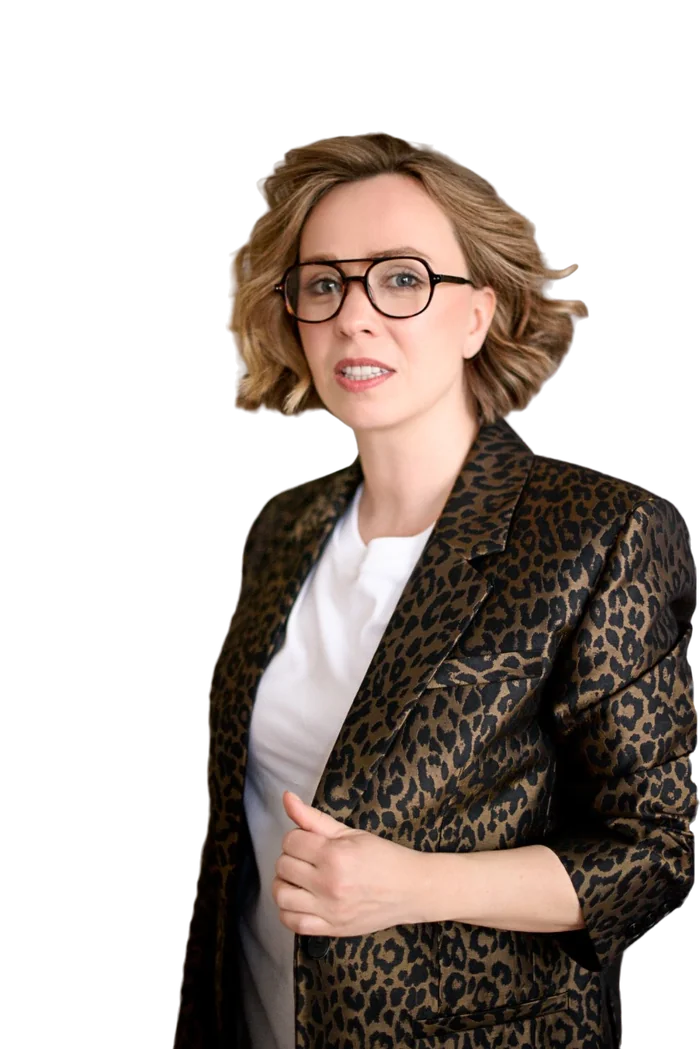
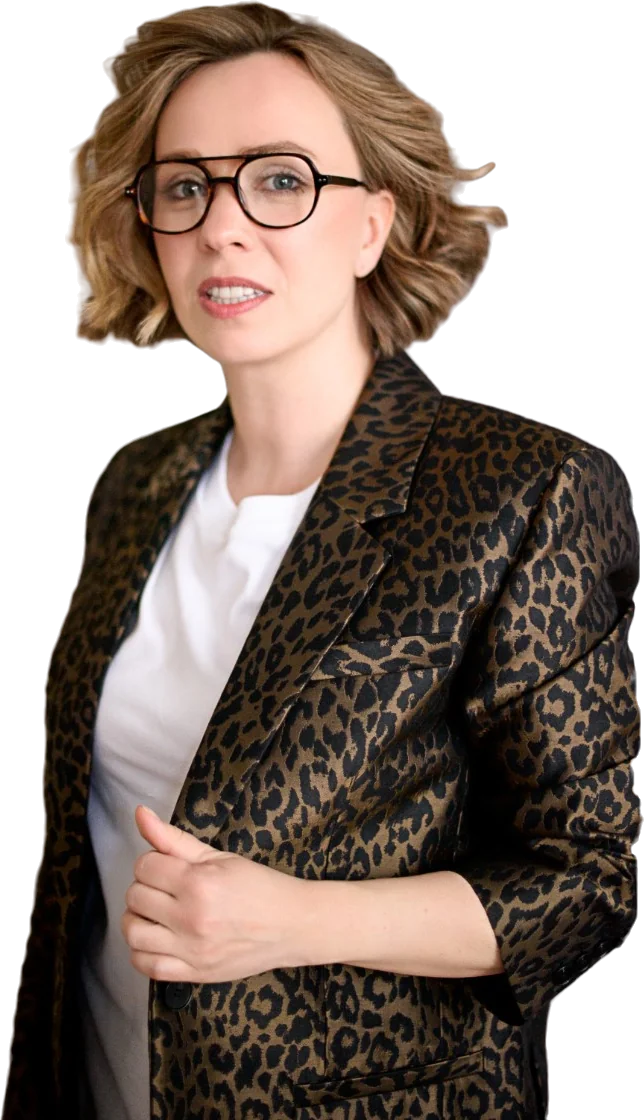
Исправлены пропорции портретов, образование и отзывы — слайдеры

diff --git a/index.html b/index.html
@@ -24,7 +24,7 @@
 *{box-sizing:border-box;margin:0;padding:0}
 html{scroll-behavior:smooth;-webkit-text-size-adjust:100%}
 body{font-family:var(--body);font-size:17px;line-height:1.55;color:var(--text);background:var(--beige);overflow-x:hidden}
-img{max-width:100%;display:block}
+img{max-width:100%;height:auto;display:block}
 a{color:inherit}
 .wrap{max-width:var(--wrap);margin:0 auto;padding:0 24px}
 section{position:relative}
@@ -62,7 +62,7 @@ section{position:relative}
   background:url(img/hero-ellipse.webp) center top/100% 100% no-repeat;filter:blur(6px);opacity:.95}
 .hero-visual .d1{position:absolute;right:-60px;top:20px;width:340px;opacity:.9}
 .hero-visual .d2{position:absolute;left:-30px;bottom:40px;width:260px;opacity:.8}
-.hero-visual .portrait{position:relative;z-index:2;width:118%;max-width:none;margin:0 -9%;}
+.hero-visual .portrait{position:relative;z-index:2;width:min(470px,90%);margin-right:12%}
 .badge{position:absolute;z-index:3;right:0;bottom:44px;background:rgba(255,255,255,.88);backdrop-filter:blur(6px);
   border-radius:14px;padding:14px 20px;box-shadow:0 14px 34px -14px rgba(47,63,59,.4);max-width:260px}
 .badge b{display:block;font-size:15px;letter-spacing:.12em;text-transform:uppercase;color:var(--ink);margin-bottom:4px}
@@ -163,13 +163,28 @@ dialog.svc[open]{animation:pop .3s cubic-bezier(.2,.8,.2,1)}
 /* ---------- GALLERIES ---------- */
 .gal{padding:30px 0 100px}
 .gal .h2{margin-bottom:40px;font-size:clamp(36px,4vw,50px)}
-.dipl{display:grid;grid-template-columns:repeat(4,1fr);gap:22px;align-items:start}
-.dipl button,.rev button{border:0;padding:0;background:#fff;border-radius:12px;overflow:hidden;cursor:zoom-in;box-shadow:0 18px 34px -22px rgba(47,63,59,.6);transition:transform .3s}
-.dipl button:hover,.rev button:hover{transform:translateY(-4px)}
-.dipl img{width:100%;aspect-ratio:3/4;object-fit:contain;background:#fff}
-.rev{columns:3 300px;column-gap:22px}
-.rev button{display:block;width:100%;margin:0 0 22px;break-inside:avoid}
-.rev img{width:100%}
+.gal-head{display:flex;align-items:flex-end;justify-content:space-between;gap:20px;margin-bottom:34px}
+.gal-head .h2{margin-bottom:0}
+.nav{display:flex;gap:10px;flex:none}
+.nav button{width:52px;height:52px;border-radius:50%;border:1.5px solid var(--caramel);background:transparent;color:var(--caramel-d);cursor:pointer;
+  display:grid;place-items:center;transition:background .25s,color .25s,opacity .25s}
+.nav button:hover:not(:disabled){background:var(--caramel);color:#fff}
+.nav button:disabled{opacity:.35;cursor:default}
+.nav svg{width:20px;height:20px}
+.track{display:flex;gap:22px;overflow-x:auto;scroll-snap-type:x mandatory;scroll-behavior:smooth;padding:6px 4px 34px;margin:0 -4px;
+  scrollbar-width:none;-webkit-overflow-scrolling:touch;overscroll-behavior-x:contain}
+.track::-webkit-scrollbar{display:none}
+.track>button{flex:0 0 calc((100% - 44px)/3);scroll-snap-align:start;border:0;padding:0;background:#fff;border-radius:12px;overflow:hidden;
+  cursor:zoom-in;box-shadow:0 18px 34px -22px rgba(47,63,59,.6);transition:transform .3s}
+.track>button:hover{transform:translateY(-4px)}
+.track img{width:100%;height:100%;object-fit:contain;background:#fff}
+.dipl>button{aspect-ratio:3/4}
+.rev{align-items:stretch}
+.rev>button{height:460px;background:var(--beige-2);padding:14px}
+.rev img{background:transparent;border-radius:8px}
+.dots{display:flex;justify-content:center;gap:8px;margin-top:4px}
+.dots i{width:8px;height:8px;border-radius:50%;background:rgba(47,63,59,.2);transition:background .25s,width .25s}
+.dots i.on{background:var(--caramel);width:22px;border-radius:4px}
 
 .lb{position:fixed;inset:0;z-index:100;background:rgba(20,20,18,.88);display:none;align-items:center;justify-content:center;padding:30px;cursor:zoom-out}
 .lb.on{display:flex}
@@ -188,14 +203,14 @@ footer .f-links{display:flex;justify-content:center;gap:22px;margin-bottom:10px}
 @media (max-width:1024px){
   .tiles{grid-template-columns:repeat(2,1fr)}
   .app-grid{grid-template-columns:1fr 300px 1fr;gap:26px}
-  .dipl{grid-template-columns:repeat(2,1fr)}
+  .track>button{flex-basis:calc((100% - 22px)/2)}
 }
 @media (max-width:860px){
   .hero .wrap{grid-template-columns:minmax(0,1fr);min-height:0}
   .hero h1{font-size:clamp(40px,12vw,72px)}
   .hero-text{padding:10px 0 10px;order:1}
   .hero-visual{order:2;min-height:0;margin:0 -24px}
-  .hero-visual .portrait{width:100%;margin:0}
+  .hero-visual .portrait{width:min(420px,78%);margin:0 auto 0 6%}
   .badge{right:16px;bottom:20px}
   .cols2{grid-template-columns:1fr;gap:30px;margin:40px 0 56px}
   .pills{grid-template-columns:1fr}
@@ -221,6 +236,10 @@ footer .f-links{display:flex;justify-content:center;gap:22px;margin-bottom:10px}
   .qa .a{padding-right:0}
   .badge{max-width:220px;padding:10px 14px}
   .price{max-width:none}
+  .track{gap:14px}
+  .track>button{flex-basis:82%}
+  .rev>button{height:400px}
+  .nav button{width:44px;height:44px}
 }
 </style>
 </head>
@@ -251,7 +270,7 @@ footer .f-links{display:flex;justify-content:center;gap:22px;margin-bottom:10px}
       <img class="d1" src="img/decor-1.webp" alt="" aria-hidden="true">
       <img class="d2" src="img/decor-2.webp" alt="" aria-hidden="true">
       <div class="ell" aria-hidden="true"></div>
-      <img class="portrait" src="img/hero-portrait.webp" width="1100" height="734" alt="Надежда Родионова, персональный стилист">
+      <img class="portrait" src="img/hero-portrait.webp" width="650" height="788" alt="Надежда Родионова, персональный стилист">
       <div class="badge"><b>Надежда Родионова</b><span>Персональный стилист<br>Диплом стилиста имиджмейкера</span></div>
     </div>
   </div>
@@ -301,7 +320,7 @@ footer .f-links{display:flex;justify-content:center;gap:22px;margin-bottom:10px}
         <div class="ell" aria-hidden="true"></div>
         <img class="arr a1" src="img/arrows.svg" alt="" aria-hidden="true">
         <img class="arr a2" src="img/arrows.svg" alt="" aria-hidden="true">
-        <img class="p" src="img/about-portrait.webp" width="700" height="1049" alt="Надежда Родионова" loading="lazy">
+        <img class="p" src="img/about-portrait.webp" width="644" height="1120" alt="Надежда Родионова" loading="lazy">
       </div>
       <div class="right rv">
         <p><strong>Знаю про сегмент люкс все, даже как купить самую желанную сумку в мире без байеров.</strong></p>
@@ -552,27 +571,29 @@ footer .f-links{display:flex;justify-content:center;gap:22px;margin-bottom:10px}
 <!-- EDUCATION -->
 <section class="gal">
   <div class="wrap">
-    <h2 class="h h2 rv">Образование</h2>
-    <div class="dipl">
+    <div class="gal-head"><h2 class="h h2 rv">Образование</h2><div class="nav" data-for="dipl"></div></div>
+    <div class="track dipl" id="dipl">
       <button data-lb="img/diploma-1.webp" aria-label="Открыть диплом 1"><img src="img/diploma-1.webp" alt="Диплом стилиста-имиджмейкера" loading="lazy"></button>
       <button data-lb="img/diploma-2.webp" aria-label="Открыть диплом 2"><img src="img/diploma-2.webp" alt="Диплом / сертификат" loading="lazy"></button>
       <button data-lb="img/diploma-3.webp" aria-label="Открыть диплом 3"><img src="img/diploma-3.webp" alt="Диплом / сертификат" loading="lazy"></button>
       <button data-lb="img/diploma-4.webp" aria-label="Открыть диплом 4"><img src="img/diploma-4.webp" alt="Диплом / сертификат" loading="lazy"></button>
     </div>
+    <div class="dots" data-for="dipl"></div>
   </div>
 </section>
 
 <!-- REVIEWS -->
 <section class="gal" style="padding-top:0">
   <div class="wrap">
-    <h2 class="h h2 rv">Отзывы</h2>
-    <div class="rev">
+    <div class="gal-head"><h2 class="h h2 rv">Отзывы</h2><div class="nav" data-for="rev"></div></div>
+    <div class="track rev" id="rev">
       <button data-lb="img/review-2.webp" aria-label="Открыть отзыв"><img src="img/review-2.webp" alt="Отзыв клиента" loading="lazy"></button>
       <button data-lb="img/review-1.webp" aria-label="Открыть отзыв"><img src="img/review-1.webp" alt="Отзыв клиента" loading="lazy"></button>
       <button data-lb="img/review-4.webp" aria-label="Открыть отзыв"><img src="img/review-4.webp" alt="Отзыв клиента" loading="lazy"></button>
       <button data-lb="img/review-3.webp" aria-label="Открыть отзыв"><img src="img/review-3.webp" alt="Отзыв клиента" loading="lazy"></button>
       <button data-lb="img/review-5.webp" aria-label="Открыть отзыв"><img src="img/review-5.webp" alt="Отзыв клиента" loading="lazy"></button>
     </div>
+    <div class="dots" data-for="rev"></div>
     <div style="text-align:center;margin-top:40px"><a class="btn" href="https://t.me/Nadezhda_my_style" target="_blank" rel="noopener">Забронировать дату</a></div>
   </div>
 </section>
@@ -598,6 +619,28 @@ const lb=document.getElementById('lb'),lbi=lb.querySelector('img');
 document.querySelectorAll('[data-lb]').forEach(b=>b.addEventListener('click',()=>{lbi.src=b.dataset.lb;lb.classList.add('on');}));
 lb.addEventListener('click',()=>lb.classList.remove('on'));
 addEventListener('keydown',e=>{if(e.key==='Escape')lb.classList.remove('on');});
+// sliders (education, reviews)
+const ARROW='<svg viewBox="0 0 24 24" fill="none" stroke="currentColor" stroke-width="2" stroke-linecap="round" stroke-linejoin="round"><path d="M15 5l-7 7 7 7"/></svg>';
+document.querySelectorAll('.track').forEach(tr=>{
+  const nav=document.querySelector('.nav[data-for="'+tr.id+'"]'), dots=document.querySelector('.dots[data-for="'+tr.id+'"]');
+  const items=[...tr.children];
+  nav.innerHTML='<button aria-label="Назад">'+ARROW+'</button><button aria-label="Вперёд" style="transform:scaleX(-1)">'+ARROW+'</button>';
+  const [prev,next]=nav.children;
+  const step=()=>items[0].getBoundingClientRect().width+parseFloat(getComputedStyle(tr).columnGap||22);
+  prev.onclick=()=>tr.scrollBy({left:-step()});
+  next.onclick=()=>tr.scrollBy({left:step()});
+  const upd=()=>{
+    const max=tr.scrollWidth-tr.clientWidth;
+    prev.disabled=tr.scrollLeft<4; next.disabled=tr.scrollLeft>max-4;
+    nav.style.visibility=max<4?'hidden':'visible';
+    const pages=Math.max(1,Math.round(max/step())+1), cur=Math.round(tr.scrollLeft/step());
+    if(dots.children.length!==pages){dots.innerHTML='<i></i>'.repeat(pages);}
+    dots.style.display=pages>1?'flex':'none';
+    [...dots.children].forEach((d,i)=>d.classList.toggle('on',i===Math.min(cur,pages-1)));
+  };
+  tr.addEventListener('scroll',()=>requestAnimationFrame(upd),{passive:true});
+  addEventListener('resize',upd); upd();
+});
 // FAQ: one open at a time
 document.querySelectorAll('.qa').forEach(q=>q.addEventListener('toggle',()=>{if(q.open)document.querySelectorAll('.qa').forEach(o=>{if(o!==q)o.open=false;});}));
 // reveal on scroll
